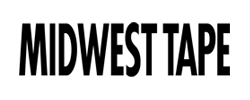
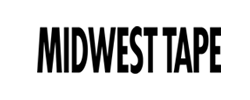
adding new sponsor

Changed region(s): [[0.056, 0.21, 0.924, 0.78]]

diff --git a/fete-des-fables/index.html b/fete-des-fables/index.html
@@ -115,7 +115,7 @@ j=d.createElement(s),dl=l!='dataLayer'?'&l='+l:'';j.async=true;j.src=
     font-size: 18px;
     text-align: center;
     color: #2a1f18;
-    padding: 0 15px 440px;
+    padding: 0 15px 430px;
 }
 .info-content a {
     text-decoration: underline;
@@ -144,7 +144,7 @@ j=d.createElement(s),dl=l!='dataLayer'?'&l='+l:'';j.async=true;j.src=
 }
 .info-content-four, .info-content-four a {
     font-size: 21px;
-    padding: 30px 0 10px;
+    padding: 30px 0 20px;
     font-style: italic;
 }
 .info-wrapper-one, .info-wrapper-two, .info-wrapper-three {
@@ -218,11 +218,12 @@ j=d.createElement(s),dl=l!='dataLayer'?'&l='+l:'';j.async=true;j.src=
     justify-content: center;
 }
 .logos a {
-    opacity: .5;
+opacity: .8;
     transition: all .4s ease-out;
 }
 .logos a:hover, .logos a:focus {
     opacity: 1;
+transform: scale(1.05);
     transition: all .4s ease-out;
 }
 .sponsors {
@@ -507,7 +508,7 @@ height="0" width="0" style="display:none;visibility:hidden"></iframe>
             <div></div>
           </div>
           <div class="info-content-four">Event proceeds benefit the <a href="../foundation/">Douglas County Libraries Foundation</a>. <a href="#sponsors" class="" data-toggle="modal" data-target="#sponsor-modal">Add your name</a> to our list of sponsors!</div>
-          <div class="logos"><a href="https://www.midwesttape.com/" target="_blank"><img class="" src="sponsors/midwest-tape.png" alt="Midwest Tape"></a></div>
+          <div class="logos"><a href="https://www.midwesttape.com/" target="_blank"><img class="" src="sponsors/midwest-tape.png" alt="Midwest Tape"></a><a href="https://www.parksidepromotions.com/" target="_blank"><img class="" src="sponsors/parkside-promotions.png" alt="Midwest Tape"></a></div>
         </div>
       </div>
     </div>
